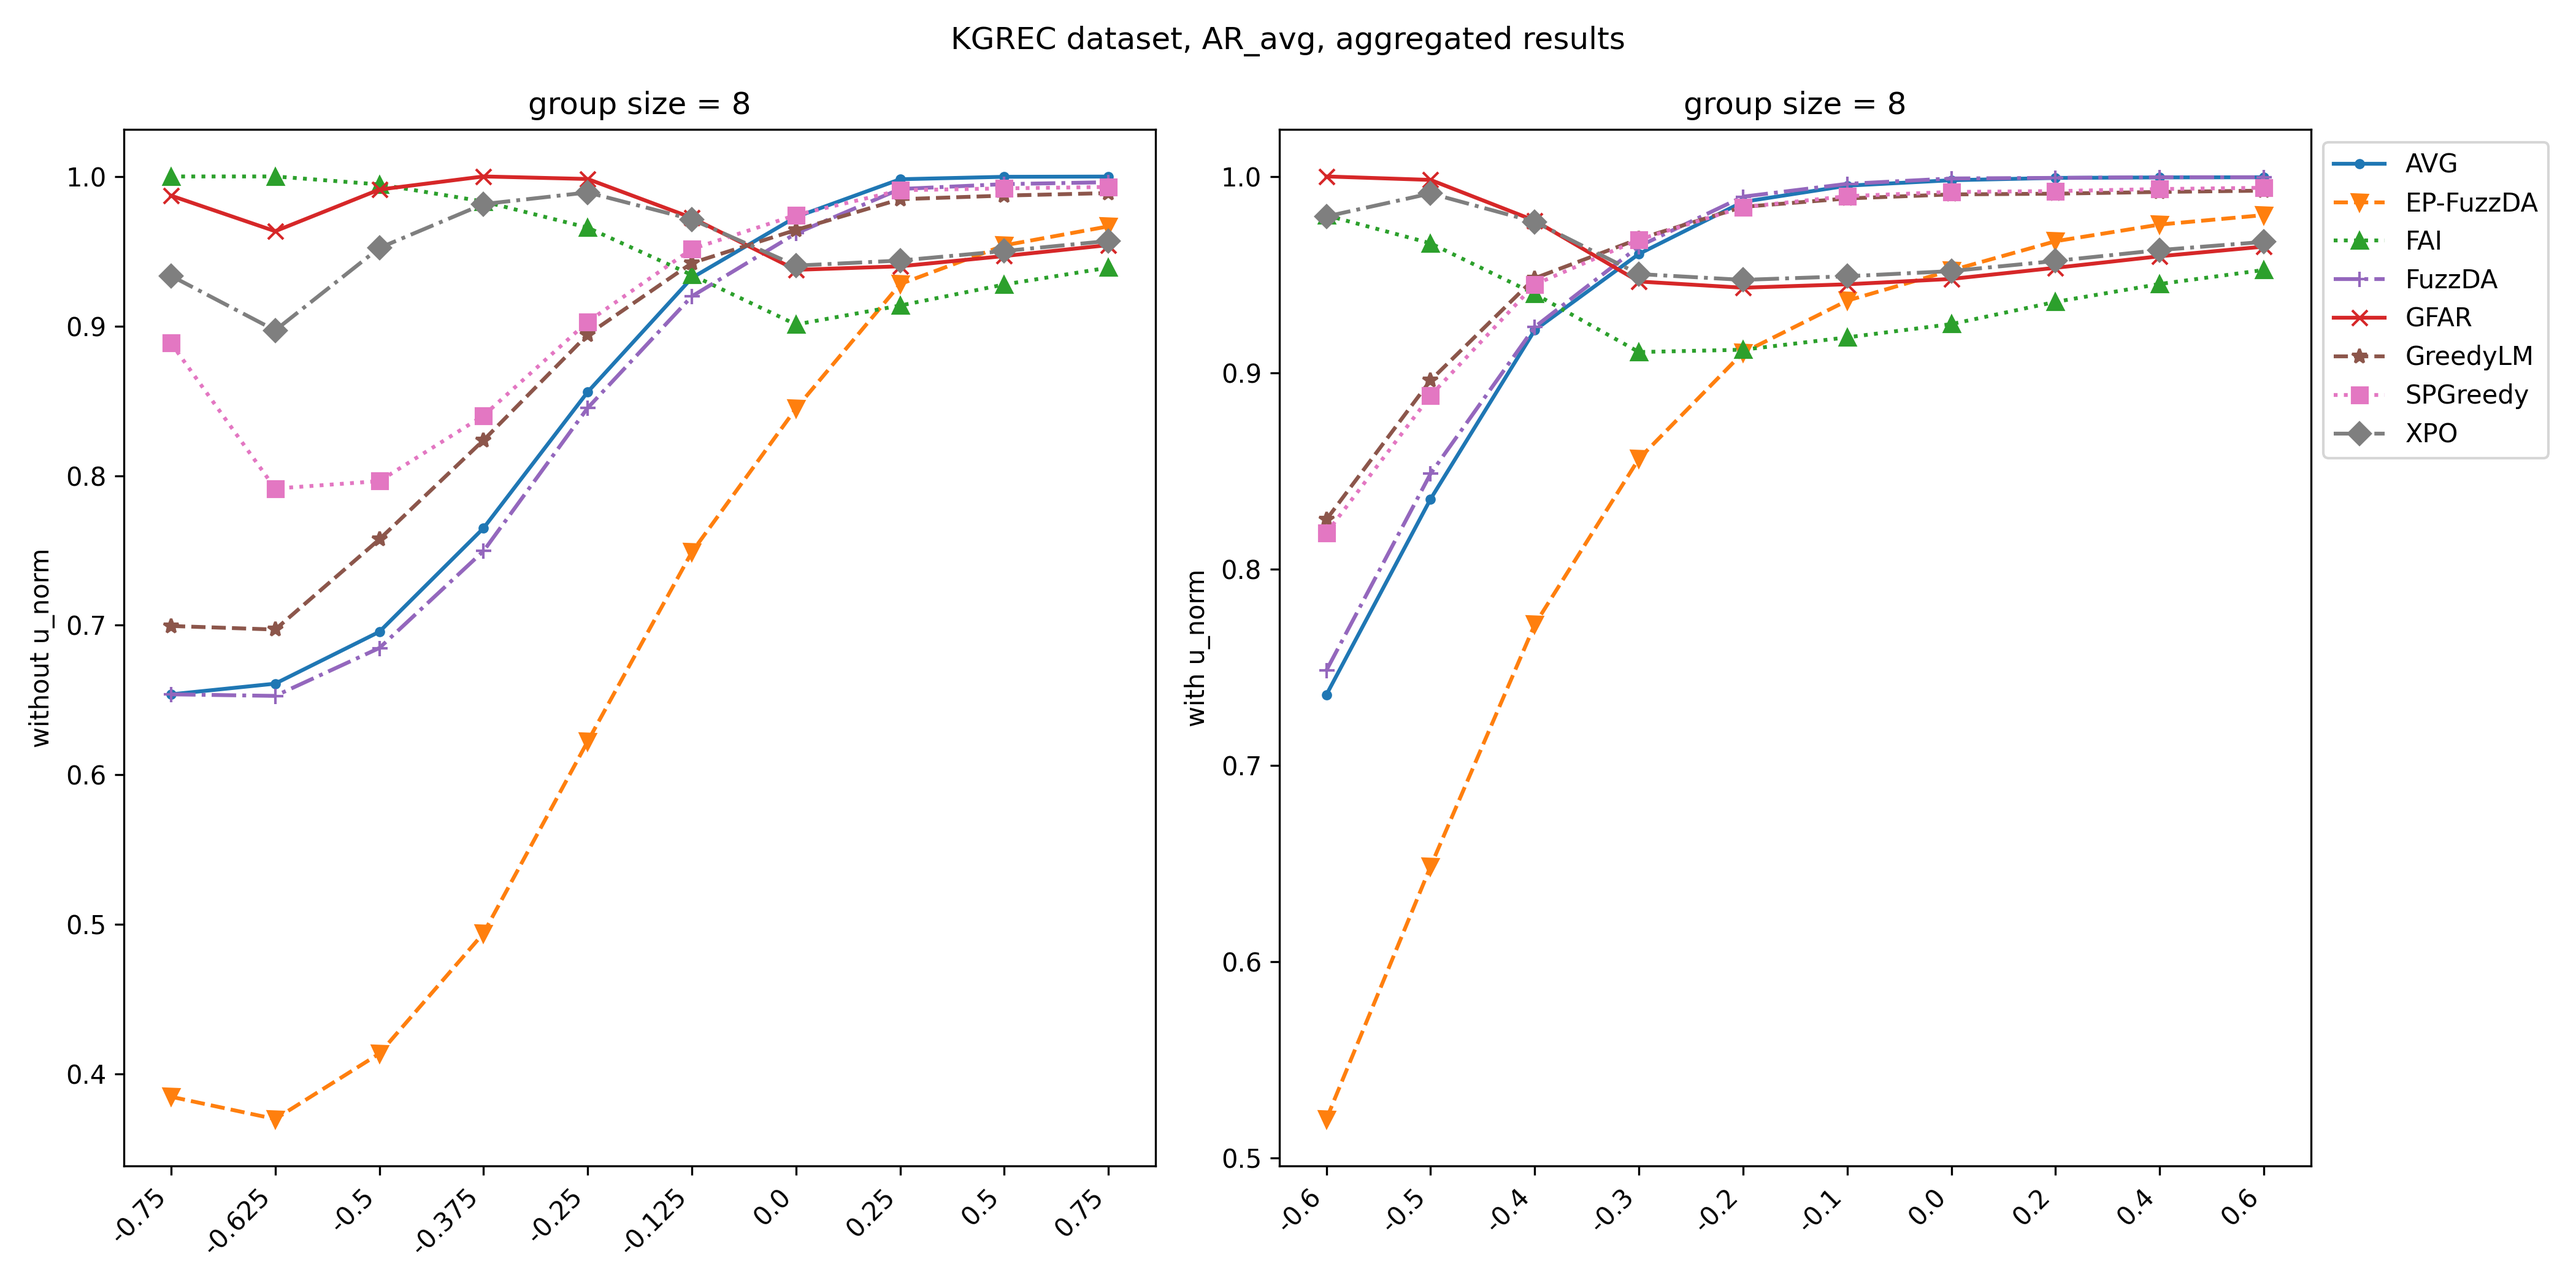
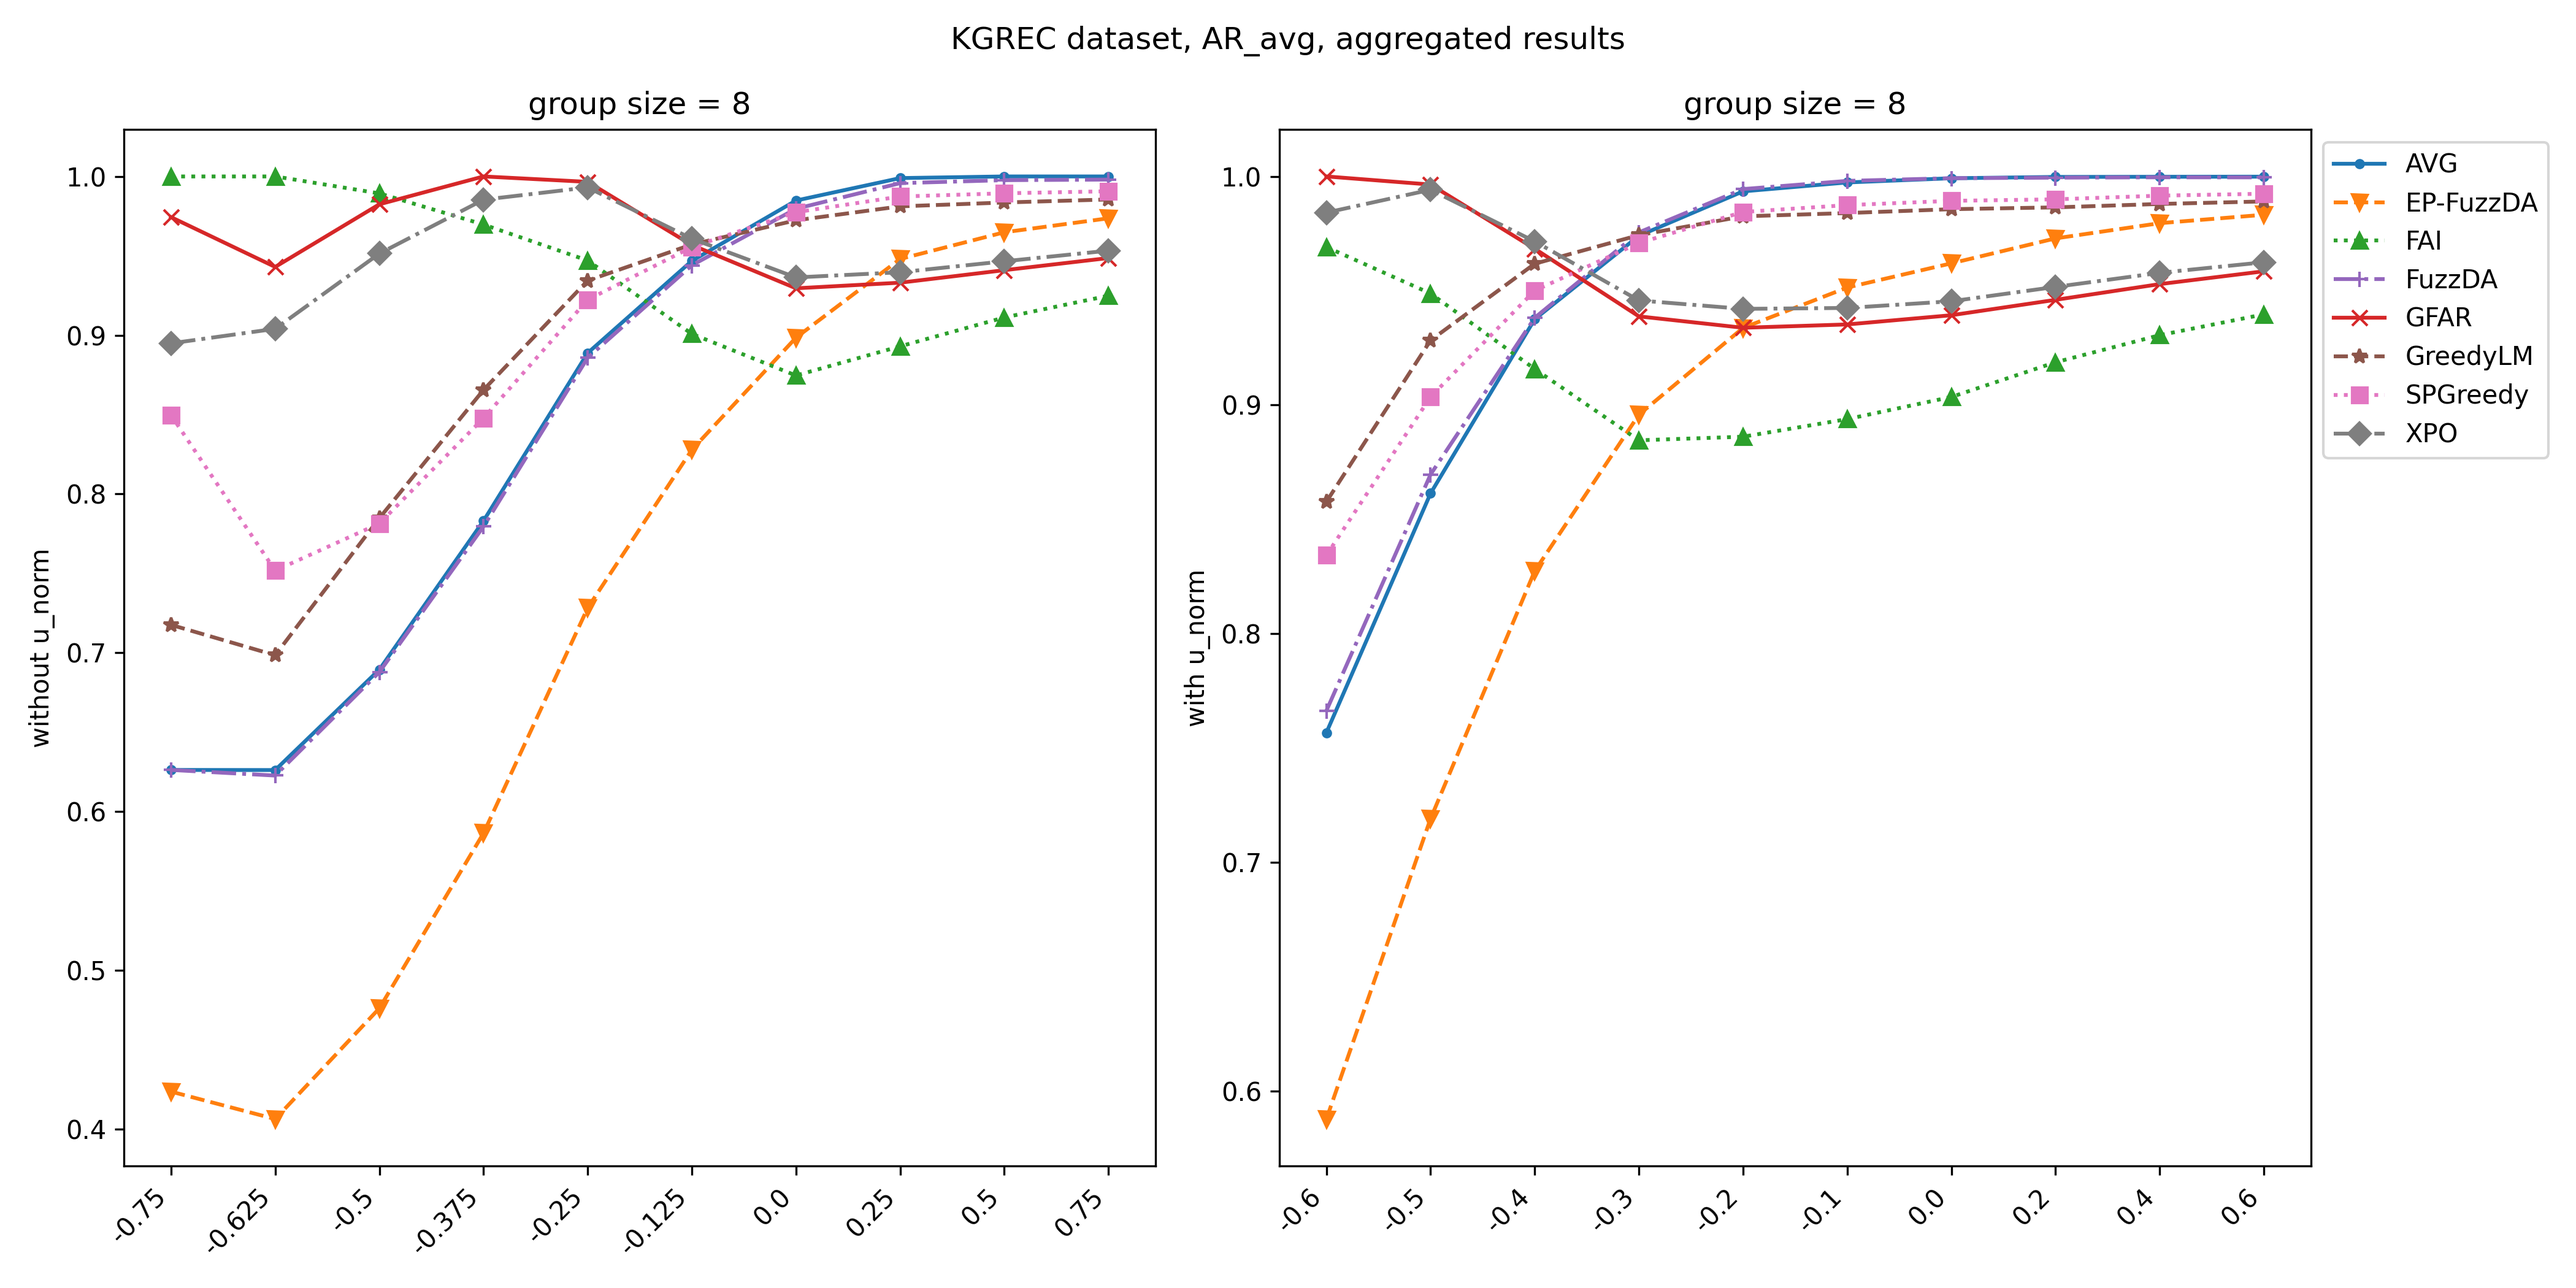
Corrected plots, updated readme

diff --git a/README.md b/README.md
@@ -24,6 +24,9 @@ against the polarity bias.
 - [ml1m](./ml1m/) folder contains everything related to evaluation on ML1M dataset
     - 
 - [kgrec](./kgrec/) folder contains everything related to evaluation on KGREC dataset
+- [evaluation_notebook](./evaluation_notebook/) folder contains jupyter notebook that was used to generate plots used in the paper
+    - [aggregated results](./evaluation_notebook/aggregated/) contains all the plots aggregated (average) over all parameter combinations
+    - [results](./evaluation_notebook/img_max/) contains resulting plots for all the combinations
 
 ### Requirements
 Having all the data in the format produced by https://github.com/LadislavMalecek/UMAP2021
